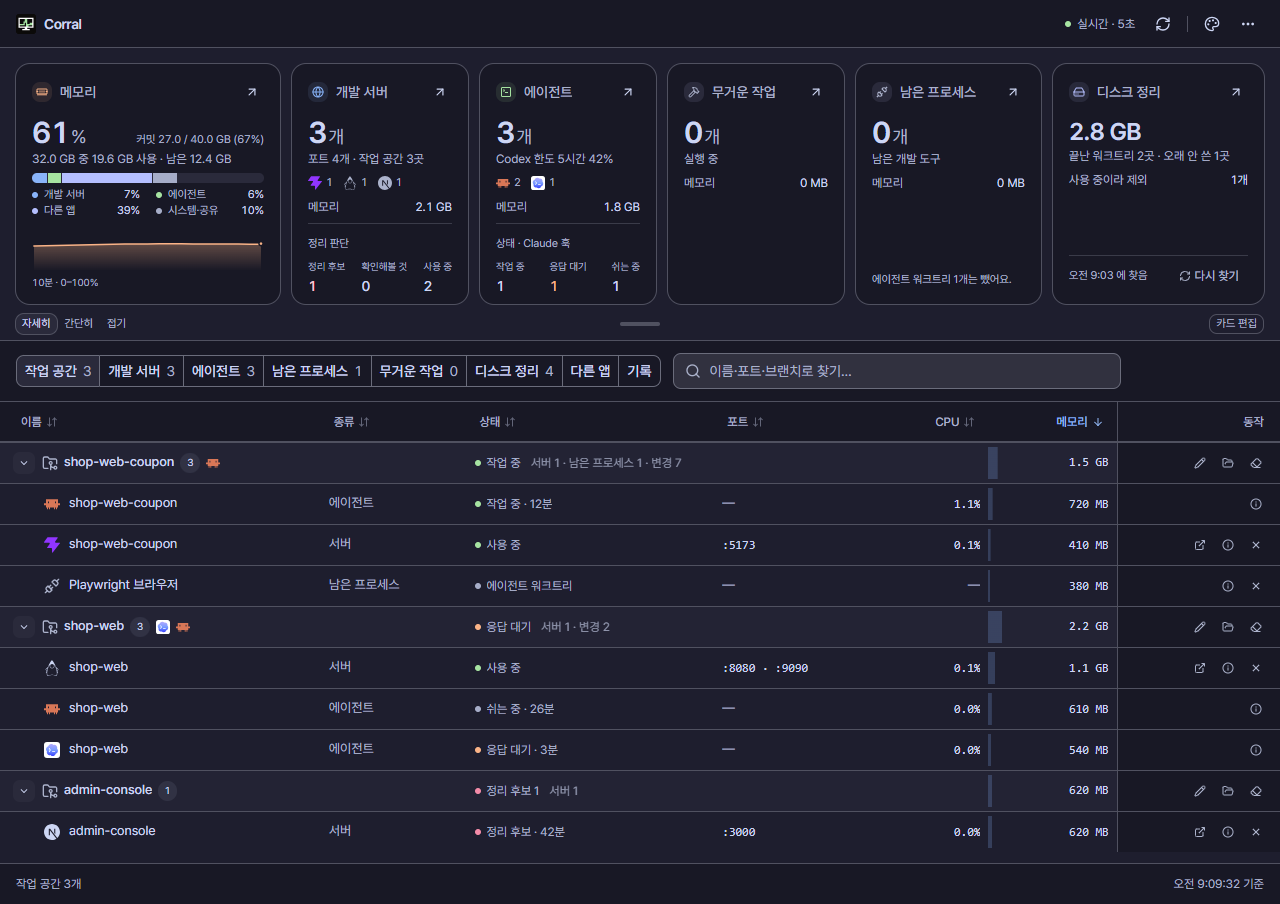
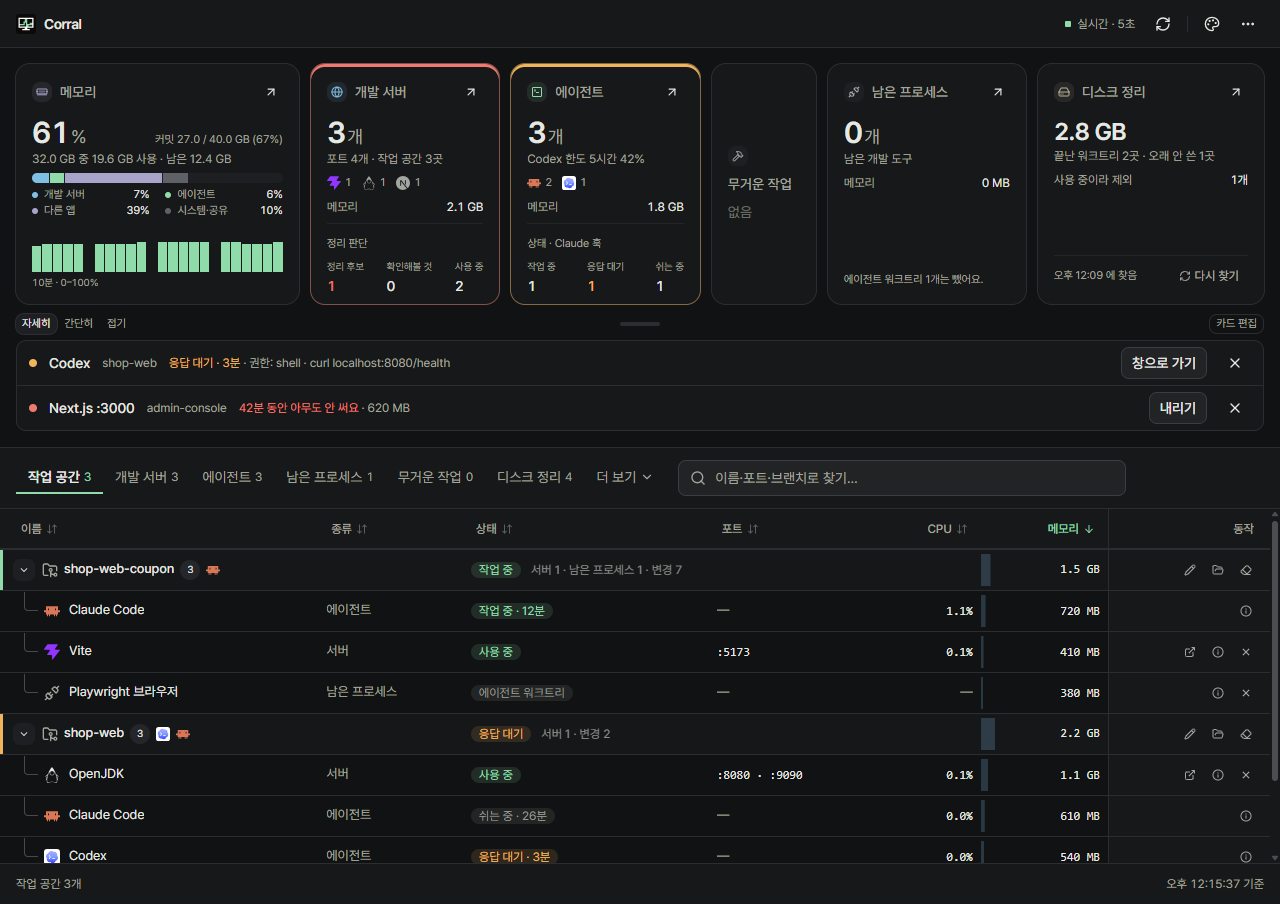
docs: 7단계 화면으로 스크린샷·문서를 고친다
README 스크린샷 세 장을 새 화면(예시 데이터)으로 다시 찍고, details.md 에 화면 설명(카드 모양·할 일 띠·더 보기)을 더한다. 7단계 설계 문서는 구현됨으로 바꾸고 구현하며 바뀐 것을 적는다.

diff --git a/docs/details.md b/docs/details.md
@@ -5,6 +5,7 @@ README에 다 담지 않은 내용이에요. 보안 검토를 하거나, 앱이 
 - [무엇을 읽고, 무엇을 바꾸나요](#무엇을-읽고-무엇을-바꾸나요)
 - [Claude 연동](#claude-연동)
 - [Codex 연동](#codex-연동)
+- [화면](#화면)
 - [설정](#설정)
 - [알려진 한계](#알려진-한계)
 - [개발 참고](#개발-참고)
@@ -63,6 +64,13 @@ README에 다 담지 않은 내용이에요. 보안 검토를 하거나, 앱이 
 ## Codex 연동
 
 "Codex 연동 켜기"는 Claude 연동과 같은 방식(확인 창·백업·다른 훅 보존·끄면 Corral 항목만 뺌)으로 Codex 훅 설정 파일에 훅을 더해, 응답 대기까지 알 수 있게 해요. 켠 뒤 **Codex에서 `/hooks`를 열어 Corral 훅(주소에 `pitwall-hook`이 들어 있는 훅)을 한 번 승인**해야 이벤트가 와요. 연동을 켜지 않아도 Codex 세션 기록으로 작업 중·쉬는 중·오류를 알아요(같은 폴더에서 Codex를 둘 이상 돌리거나 기록을 찾지 못하면 CPU로 짐작).
+
+## 화면
+
+- 위쪽 카드 줄은 **자세히·간단히·접기** 세 가지로 볼 수 있고, 고른 모양은 다시 켜도 기억해요. 문제가 있는 카드(정리 후보, 응답 대기)는 위쪽 선 색으로 강조하고, 할 말이 없는 카드는 작게 줄여요.
+- 카드 줄과 탭 사이의 **할 일** 띠에는 지금 사람이 봐야 할 것만 나와요. 응답을 기다리는 에이전트(창으로 가기)와 정리 후보인 개발 서버(내리기)예요. 닫으면 그 항목만 숨겨요.
+- 탭은 작업 공간·개발 서버·에이전트·남은 프로세스·무거운 작업·디스크 정리가 먼저 보이고, **더 보기**에 다른 앱·기록이 들어 있어요.
+- 작업 공간 탭은 작업 공간 줄 아래에 그 안의 에이전트·서버·남은 프로세스를 트리 선으로 묶어 보여 줘요. 서버 이름은 브랜드 이름(예: Vite, OpenJDK)으로 보여요.
 
 ## 설정
 

diff --git a/docs/superpowers/specs/2026-11-12-corral-7-identity-design.md b/docs/superpowers/specs/2026-11-12-corral-7-identity-design.md
@@ -1,6 +1,6 @@
 # 7단계: Corral 다운 얼굴 — 새 색과 NeoHtop 과 다른 화면 결
 
-상태: **설계**(2026-11-12). 시안은 브레인스토밍 화면(저장소 밖)으로 사용자와 함께 봤고, 그 내용은 이 문서에 모두 옮겼다. 만드는 사람 검토(질문 7개)를 반영했다.
+상태: **구현됨**(2026-11-12). 시안은 브레인스토밍 화면(저장소 밖)으로 사용자와 함께 봤고, 그 내용은 이 문서에 모두 옮겼다. 만드는 사람 검토(질문 7개)를 반영했다.
 
 ## 1. 왜
 
@@ -133,3 +133,11 @@
 
 - README 의 스크린샷 세 장을 새 화면으로 다시 찍는다(예시 데이터로 — 실제 PC 정보는 넣지 않는다).
 - `docs/details.md` 에서 바뀐 화면(탭 "더 보기", 할 일 띠)과 맞지 않는 설명이 있으면 고친다.
+
+## 8. 구현하며 바뀐 것
+
+- 어두운 테마의 `--destructive-foreground` 는 #160b09 로 했다(빨강 바탕 위 글자 대비).
+- 간단히 모드의 조용한 카드는 아이콘 칩 없이 제목과 "없음" 두 줄만 보인다.
+- 서버 멤버 이름은 브랜드 이름을 먼저 쓴다(예: `java -jar` → OpenJDK).
+- 픽셀 추이의 툴팁은 `ChartTooltip.vue` 로 따로 뺐다.
+- "더 보기" 메뉴는 키보드로 쓸 수 있다: 열면 메뉴로 포커스가 들어가고, ↑/↓ 로 옮기고, Esc 로 닫으면 포커스가 돌아온다.
